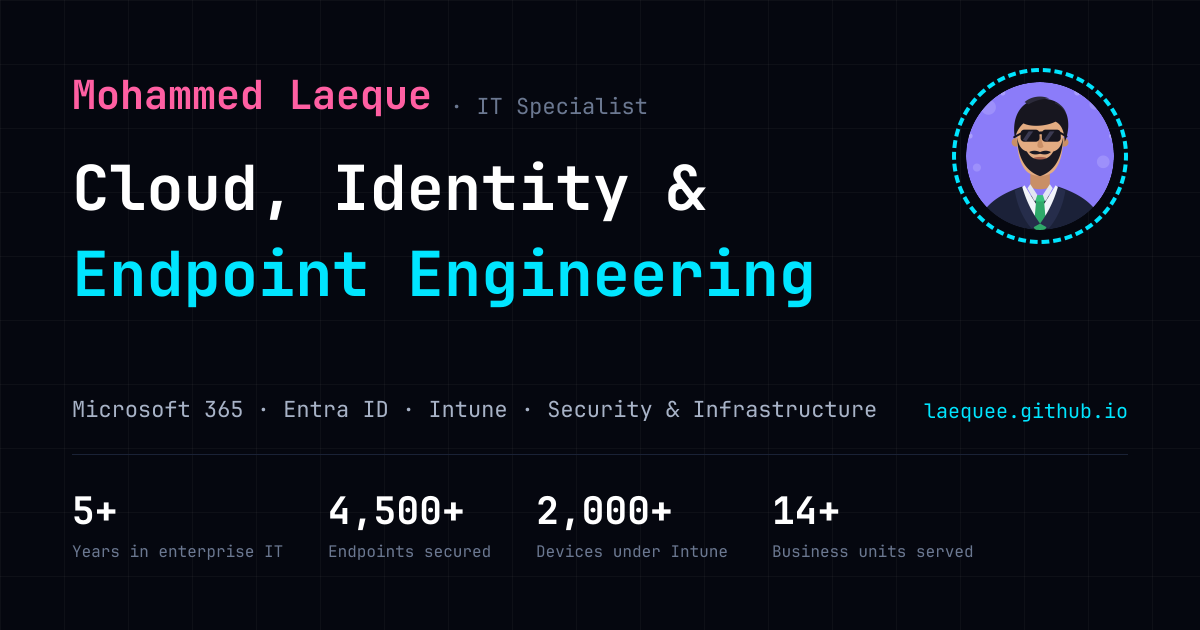
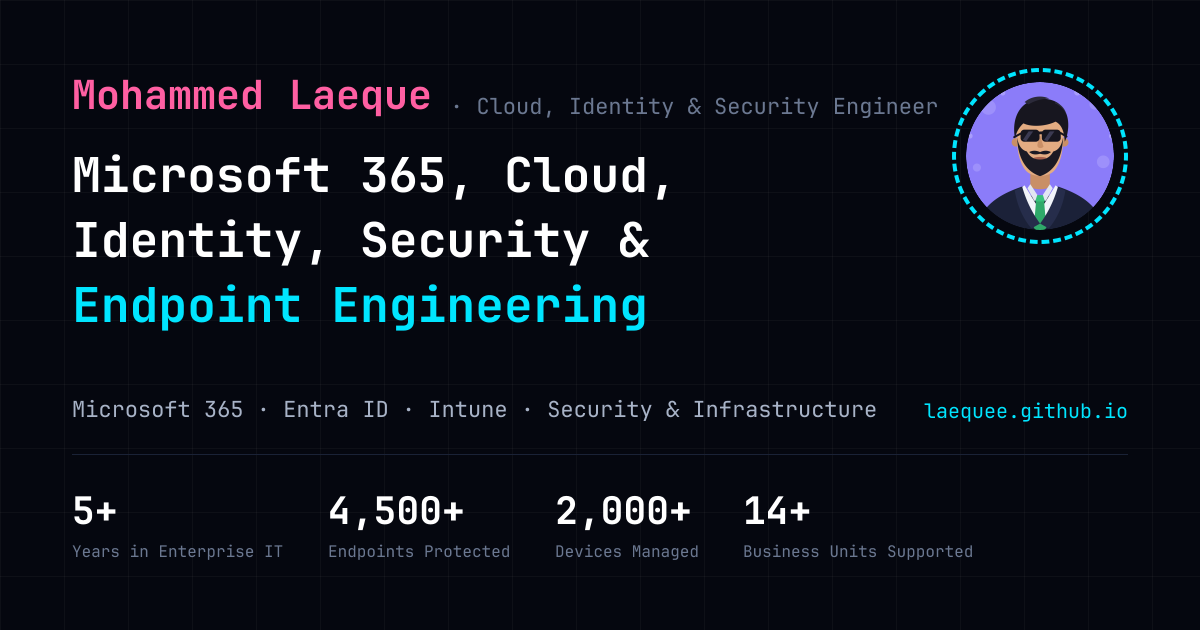
Update the role title and headline
Title becomes "Cloud, Identity & Security Engineer"; the headline expands to
"Microsoft 365, Cloud, Identity, Security & Endpoint Engineering".

The longer headline no longer fits two lines, so it is hand-broken into three
of 21/20/20 characters — near enough identical that the block sets as a clean
rectangle — and the size drops to 2.9rem so each line clears the 648px column.
Measured at 584/557/557px, one line each. Only the closing line takes the
accent, so the phrase still resolves on its final words.

Share card regenerated; it carried the old two-line headline.

Claude-Session: https://claude.ai/code/session_01CCz6TbbNc7Wxt2ZEy2xneo

diff --git a/src/components/home/hero.tsx b/src/components/home/hero.tsx
@@ -10,17 +10,22 @@ const socials = [
 ];
 
 /*
- * "Cloud, Identity & Endpoint Engineering" split so the accent lands on the
- * second line. Hardcoded rather than derived — the break point is a typographic
- * judgement about balancing two lines, not something a split() rule gets right.
+ * The headline, broken by hand. A split() rule cannot make a typographic
+ * judgement, and letting it wrap on its own orphans the ampersand.
  *
- * The two lines are 17 and 20 monospace characters. At the xl size they need
- * roughly 510px and 600px; the left column is ~648px once the portrait is
- * 400px wide. Shrinking the type or widening that column any further is what
- * keeps the ampersand from orphaning onto a line of its own.
+ * These three lines are 21, 20 and 20 monospace characters — near enough
+ * identical that the block sets as a clean rectangle. At 2.9rem they need
+ * about 585px; the left column is ~648px with the portrait at 400px. Change
+ * the wording and this arithmetic needs redoing.
+ *
+ * Only the last line takes the accent, so the phrase still resolves on its
+ * closing words.
  */
-const headlineLead = "Cloud, Identity &";
-const headlineTail = "Endpoint Engineering";
+const headlineLines = [
+  { text: "Microsoft 365, Cloud,", accent: false },
+  { text: "Identity, Security &", accent: false },
+  { text: "Endpoint Engineering", accent: true },
+];
 
 export function Hero() {
   return (
@@ -87,10 +92,16 @@ export function Hero() {
                   delayed slightly so the sweep travels down.
                 */}
                 <span className="group mt-3 block cursor-default">
-                  <HeadlineLine>{headlineLead}</HeadlineLine>
-                  <HeadlineLine accent delay="delay-100">
-                    {headlineTail}
-                  </HeadlineLine>
+                  {headlineLines.map((line, i) => (
+                    <HeadlineLine
+                      key={line.text}
+                      accent={line.accent}
+                      /* Staggered so the sweep travels down the phrase. */
+                      delay={["", "delay-75", "delay-150"][i]}
+                    >
+                      {line.text}
+                    </HeadlineLine>
+                  ))}
                 </span>
               </h1>
             </Reveal>
@@ -162,7 +173,7 @@ function HeadlineLine({
   return (
     <span className="relative inline-block overflow-hidden align-top">
       <span
-        className={`relative z-10 block px-1 text-[2.2rem] font-bold leading-[1.06] transition-colors duration-500 group-hover:text-accent-ink sm:text-5xl xl:text-[3.1rem] ${
+        className={`relative z-10 block px-1 text-[1.9rem] font-bold leading-[1.08] transition-colors duration-500 group-hover:text-accent-ink sm:text-[2.6rem] xl:text-[2.9rem] ${
           accent ? "text-accent" : "text-ink"
         }`}
       >

diff --git a/tools/og-card.tsx b/tools/og-card.tsx
@@ -81,10 +81,14 @@ export default async function OpenGraphImage() {
               </span>
             </div>
 
-            <span style={{ fontSize: 62, fontWeight: 700, color: INK, marginTop: 26 }}>
-              Cloud, Identity &amp;
+            {/* Same hand-broken lines as the hero, at a size that clears the ring. */}
+            <span style={{ fontSize: 48, fontWeight: 700, color: INK, marginTop: 22 }}>
+              Microsoft 365, Cloud,
             </span>
-            <span style={{ fontSize: 62, fontWeight: 700, color: ACCENT, marginTop: 4 }}>
+            <span style={{ fontSize: 48, fontWeight: 700, color: INK, marginTop: 2 }}>
+              Identity, Security &amp;
+            </span>
+            <span style={{ fontSize: 48, fontWeight: 700, color: ACCENT, marginTop: 2 }}>
               Endpoint Engineering
             </span>
           </div>

diff --git a/src/content/profile.ts b/src/content/profile.ts
@@ -21,8 +21,8 @@ export const yearsExperience = Math.floor(
 export const profile = {
   name: "Mohammed Laeque",
   initials: "ML",
-  title: "IT Specialist",
-  headline: "Cloud, Identity & Endpoint Engineering",
+  title: "Cloud, Identity & Security Engineer",
+  headline: "Microsoft 365, Cloud, Identity, Security & Endpoint Engineering",
   discipline: "Microsoft 365 · Entra ID · Intune · Security & Infrastructure",
   location: "Al Zahiyah, Abu Dhabi, UAE",
 
